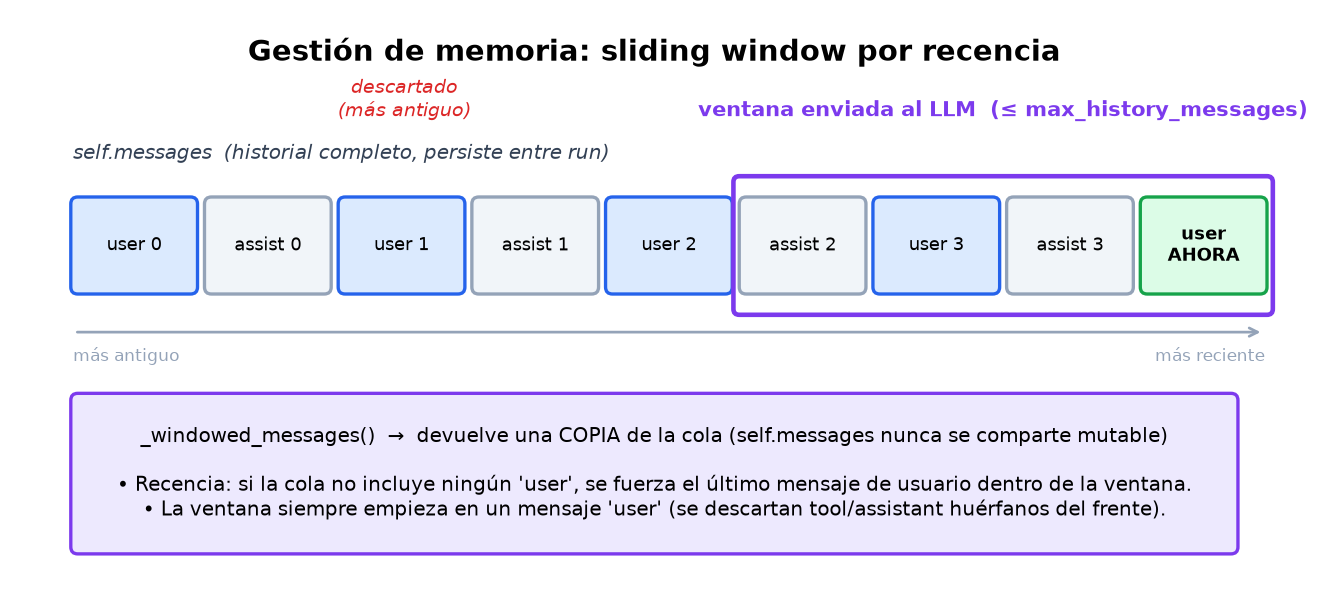
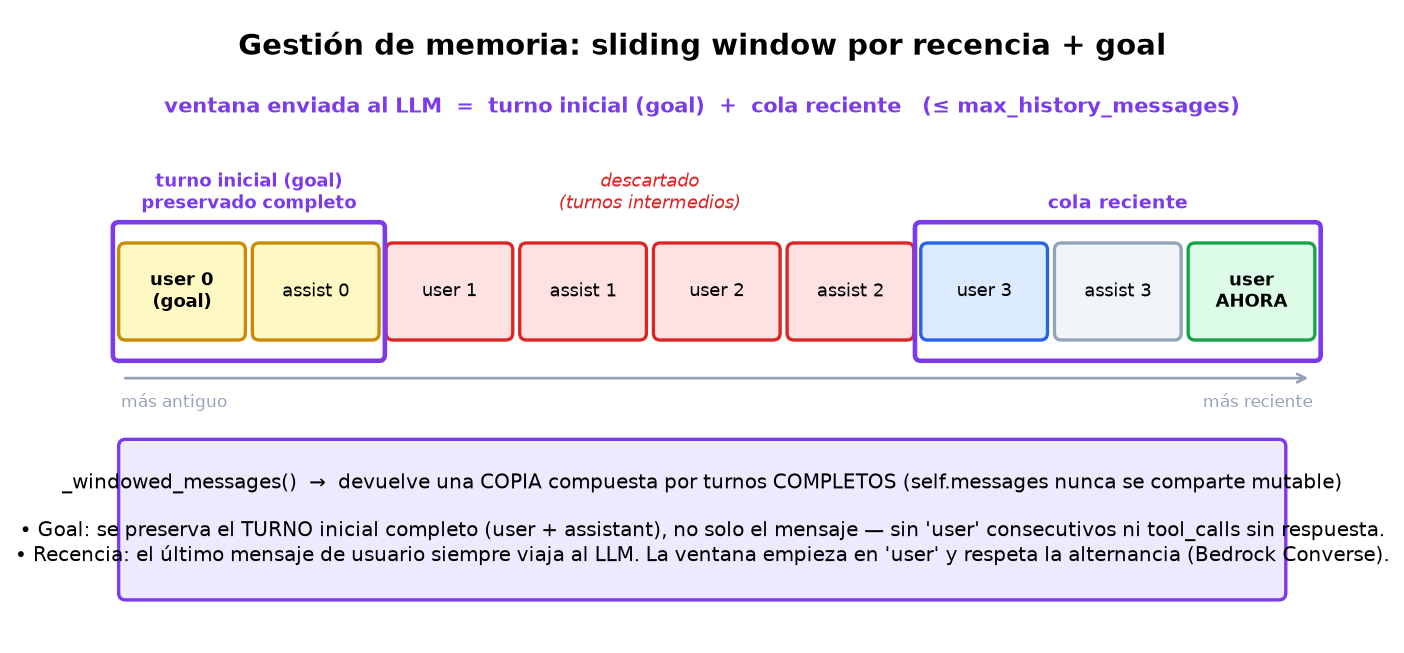
docs(informe-m2): diagrama marca el turno inicial (goal); §3 al turno completo; §5.3 intro de cobertura

diff --git a/scripts/generar_diagramas_m2.py b/scripts/generar_diagramas_m2.py
@@ -87,19 +87,21 @@ def _guardar(fig, nombre: str) -> None:
 
 
 def diagrama_memoria() -> None:
-    fig, ax = plt.subplots(figsize=(11, 5))
+    fig, ax = plt.subplots(figsize=(11, 5.4))
     ax.set_xlim(0, 11)
-    ax.set_ylim(0, 5)
+    ax.set_ylim(0, 5.4)
     ax.axis("off")
 
-    ax.text(5.5, 4.6, "Gestión de memoria: sliding window por recencia",
+    ax.text(5.5, 5.05, "Gestión de memoria: sliding window por recencia + goal",
             ha="center", fontsize=14, weight="bold")
 
     # Fila de mensajes del historial (self.messages), del más viejo al actual.
+    # Turno inicial (goal) = amarillo; turnos intermedios (descartados) = rojo;
+    # cola reciente = azul/gris; último user = verde.
     etiquetas = [
-        ("user 0", AZUL, AZUL_B), ("assist 0", GRIS, GRIS_B),
-        ("user 1", AZUL, AZUL_B), ("assist 1", GRIS, GRIS_B),
-        ("user 2", AZUL, AZUL_B), ("assist 2", GRIS, GRIS_B),
+        ("user 0\n(goal)", AMARILLO, AMARILLO_B), ("assist 0", AMARILLO, AMARILLO_B),
+        ("user 1", ROJO, ROJO_B), ("assist 1", ROJO, ROJO_B),
+        ("user 2", ROJO, ROJO_B), ("assist 2", ROJO, ROJO_B),
         ("user 3", AZUL, AZUL_B), ("assist 3", GRIS, GRIS_B),
         ("user\nAHORA", VERDE, VERDE_B),
     ]
@@ -109,36 +111,50 @@ def diagrama_memoria() -> None:
         x = x0 + i * (w + gap)
         xs.append(x)
         caja(ax, x, y0, w, h, txt, face, edge, fontsize=8.5,
-             weight="bold" if "AHORA" in txt else "normal")
+             weight="bold" if ("goal" in txt or "AHORA" in txt) else "normal")
 
-    ax.text(x0, y0 + h + 0.35, "self.messages  (historial completo, persiste entre run)",
-            ha="left", fontsize=9.5, style="italic", color="#334155")
     ax.annotate("", xy=(xs[-1] + w, y0 - 0.35), xytext=(x0, y0 - 0.35),
                 arrowprops=dict(arrowstyle="->", color=GRIS_B, lw=1.3))
     ax.text(x0, y0 - 0.6, "más antiguo", ha="left", fontsize=8, color=GRIS_B)
     ax.text(xs[-1] + w, y0 - 0.6, "más reciente", ha="right", fontsize=8, color=GRIS_B)
 
-    # Ventana: cubre la cola más reciente (últimos N = max_history_messages).
-    win_left = xs[5] - gap / 2
-    win_right = xs[-1] + w + 0.05
+    # Región del goal: turno inicial COMPLETO (user + assistant), boxes 0-1.
+    goal_l, goal_r = xs[0] - gap / 2, xs[1] + w + 0.05
     ax.add_patch(FancyBboxPatch(
-        (win_left, y0 - 0.18), win_right - win_left, h + 0.36,
+        (goal_l, y0 - 0.18), goal_r - goal_l, h + 0.36,
         boxstyle="round,pad=0.02,rounding_size=0.05",
         linewidth=2.2, edgecolor=VIOLETA_B, facecolor="none", zorder=5,
     ))
-    ax.text((win_left + win_right) / 2, y0 + h + 0.72,
-            "ventana enviada al LLM  (≤ max_history_messages)",
-            ha="center", fontsize=10, weight="bold", color=VIOLETA_B)
+    ax.text((goal_l + goal_r) / 2, y0 + h + 0.32,
+            "turno inicial (goal)\npreservado completo", ha="center",
+            fontsize=8.5, weight="bold", color=VIOLETA_B)
 
-    # Zona descartada.
-    ax.text((x0 + win_left) / 2, y0 + h + 0.72, "descartado\n(más antiguo)",
-            ha="center", fontsize=9, color=ROJO_B, style="italic")
+    # Región de la cola reciente: boxes 6-8.
+    rec_l, rec_r = xs[6] - gap / 2, xs[-1] + w + 0.05
+    ax.add_patch(FancyBboxPatch(
+        (rec_l, y0 - 0.18), rec_r - rec_l, h + 0.36,
+        boxstyle="round,pad=0.02,rounding_size=0.05",
+        linewidth=2.2, edgecolor=VIOLETA_B, facecolor="none", zorder=5,
+    ))
+    ax.text((rec_l + rec_r) / 2, y0 + h + 0.32, "cola reciente",
+            ha="center", fontsize=9, weight="bold", color=VIOLETA_B)
+
+    # Zona descartada (turnos intermedios): boxes 2-5.
+    ax.text((xs[2] + xs[5] + w) / 2, y0 + h + 0.32,
+            "descartado\n(turnos intermedios)", ha="center", fontsize=8.5,
+            color=ROJO_B, style="italic")
+
+    # Caption: la ventana = goal + cola.
+    ax.text(5.5, 4.55,
+            "ventana enviada al LLM  =  turno inicial (goal)  +  cola reciente"
+            "   (≤ max_history_messages)",
+            ha="center", fontsize=10, weight="bold", color=VIOLETA_B)
 
     # Notas de invariantes.
     caja(ax, 0.5, 0.35, 10.0, 1.35,
-         "_windowed_messages()  →  devuelve una COPIA de la cola (self.messages nunca se comparte mutable)\n\n"
-         "• Recencia: si la cola no incluye ningún 'user', se fuerza el último mensaje de usuario dentro de la ventana.\n"
-         "• La ventana siempre empieza en un mensaje 'user' (se descartan tool/assistant huérfanos del frente).",
+         "_windowed_messages()  →  devuelve una COPIA compuesta por turnos COMPLETOS (self.messages nunca se comparte mutable)\n\n"
+         "• Goal: se preserva el TURNO inicial completo (user + assistant), no solo el mensaje — sin 'user' consecutivos ni tool_calls sin respuesta.\n"
+         "• Recencia: el último mensaje de usuario siempre viaja al LLM. La ventana empieza en 'user' y respeta la alternancia (Bedrock Converse).",
          VIOLETA, VIOLETA_B, fontsize=9.5)
 
     _guardar(fig, "memoria_m2.png")

diff --git a/INFORME_M2.md b/INFORME_M2.md
@@ -85,9 +85,11 @@ La estrategia obligatoria es **sliding window por recencia**, en
 cada llamada al LLM se construye una **copia recortada** del historial:
 
 - Si `len(self.messages) <= max_history_messages`, se envía tal cual.
-- Si lo supera, se conserva el **primer mensaje de usuario** (el goal) y la
-  **cola más reciente**, descartando los turnos intermedios (patrón
-  `preserve_first_user` visto en clase).
+- Si lo supera, se conserva el **turno inicial completo** (el goal: el primer
+  mensaje de usuario **y su respuesta del asistente**) más los **turnos
+  recientes**, descartando los intermedios. La ventana se compone de turnos
+  completos (patrón `preserve_first_user` visto en clase, extendido al turno
+  entero).
 
 **Detalle clave (bug corregido):** `_windowed_messages` devuelve una **lista
 nueva**, nunca el objeto `self.messages`. Una versión anterior aplicaba la
@@ -106,12 +108,16 @@ la inclusión del último mensaje de usuario al frente de la ventana
 ([agent.py:294-300](student_framework/agent.py#L294)). Cubierto por
 `test_ultimo_mensaje_de_usuario_siempre_presente`.
 
-El **primer mensaje de usuario (el goal)** también se conserva cuando el historial
-supera el presupuesto: suele contener la tarea, y mantenerlo evita que el agente
-"olvide" qué está resolviendo en conversaciones largas (patrón `preserve_first_user`
-de la Clase 4). La recencia tiene prioridad: con presupuestos mínimos el goal cede
-su lugar para garantizar el último `user`. Cubierto por
-`test_primer_turno_goal_se_conserva`.
+El **turno inicial completo (el goal)** también se conserva cuando el historial
+supera el presupuesto. Preservamos el primer mensaje de usuario **junto con su
+respuesta del asistente** (no solo el mensaje suelto): esto evita dejar dos `user`
+consecutivos o un `tool_call` sin su respuesta en la ventana, y respeta la
+**alternancia de roles** que exige Bedrock Converse. Mantener el goal evita, además,
+que el agente "olvide" la tarea en conversaciones largas (patrón `preserve_first_user`
+de la Clase 4, extendido al turno entero). La recencia tiene prioridad: si el turno
+inicial fuera tan grande que no dejara lugar, cede para garantizar el último `user`.
+Cubierto por `test_primer_turno_goal_se_conserva`, que además verifica que no queden
+dos turnos de usuario pegados.
 
 Además, la ventana **siempre empieza en un mensaje `user`**: se descartan del
 frente los `tool`/`assistant` que hayan quedado sin su turno completo. Esto evita
@@ -244,13 +250,18 @@ Ambos parámetros se pueden configurar desde `build_agent`
 (`max_retries`, `retry_backoff_base`); poner `retry_backoff_base=0` desactiva los
 sleeps en los tests.
 
-### 5.3 Cobertura
+### 5.3 Cobertura de pruebas
 
-`test_timeout_del_llm_se_reintenta_y_termina_bien`,
-`test_throttling_del_llm_se_reintenta`,
-`test_error_no_transitorio_no_se_reintenta`,
-`test_reintentos_agotados_propagan_el_error` y
-`test_tool_con_fallo_transitorio_se_reintenta`.
+La resiliencia está verificada por tests propios que simulan cada tipo de fallo
+y comprueban el comportamiento esperado: que los transitorios se reintenten y la
+ejecución termine bien, y que los no transitorios afloren sin reintento. Los
+tests que la cubren:
+
+- `test_timeout_del_llm_se_reintenta_y_termina_bien` — un timeout se reintenta y `run` tiene éxito.
+- `test_throttling_del_llm_se_reintenta` — un rate limit (429) / 5xx se reintenta.
+- `test_error_no_transitorio_no_se_reintenta` — un error de programación aflora limpio, sin reintentos.
+- `test_reintentos_agotados_propagan_el_error` — si el fallo persiste, tras agotar los reintentos se propaga.
+- `test_tool_con_fallo_transitorio_se_reintenta` — una herramienta que falla una vez con timeout se reintenta.
 
 ---
 
@@ -457,7 +468,7 @@ python -m mia_agents.cli run --module student_framework \
 | Statefulness entre llamadas a `run` | `self.messages` persiste ([agent.py:122](student_framework/agent.py#L122)) | `test_agent_is_stateful_across_runs` |
 | `chat(...)` nunca supera `max_history_messages` | `_windowed_messages` (§3) | `test_bounded_history_growth` |
 | Mensaje de usuario más reciente siempre presente | `_windowed_messages` (inclusión forzada, §3.2) | `test_ultimo_mensaje_de_usuario_siempre_presente` |
-| Primer turno (goal) preservado | `_windowed_messages` (patrón `preserve_first_user`, §3.2) | `test_primer_turno_goal_se_conserva` |
+| Turno inicial completo (goal) preservado | `_windowed_messages` (turnos completos, §3.2) | `test_primer_turno_goal_se_conserva` |
 | Conversaciones largas sin romperse | sliding window + invariantes (§3) | `test_conversacion_larga_sigue_respondiendo` |
 | `structured_call` ofrece `final_result` | `tools=[tool]` en cada `chat` (§4.1) | `test_structured_call_offers_final_result_tool` |
 | Validación + reparación de salida estructurada | los 3 casos (§4.2) | `test_structured_output_repairs_schema_validation_error`, `test_prompt_roto_dispara_reparacion_y_se_recupera` |
